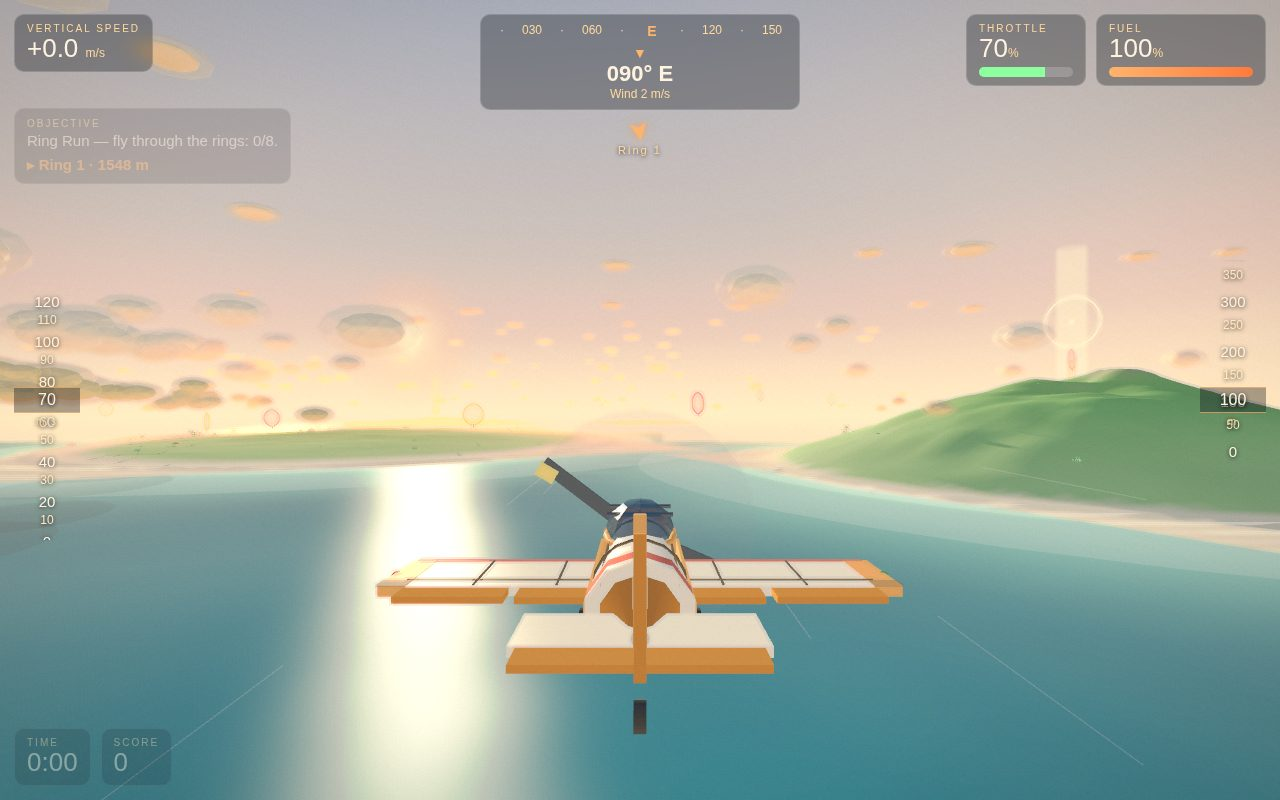
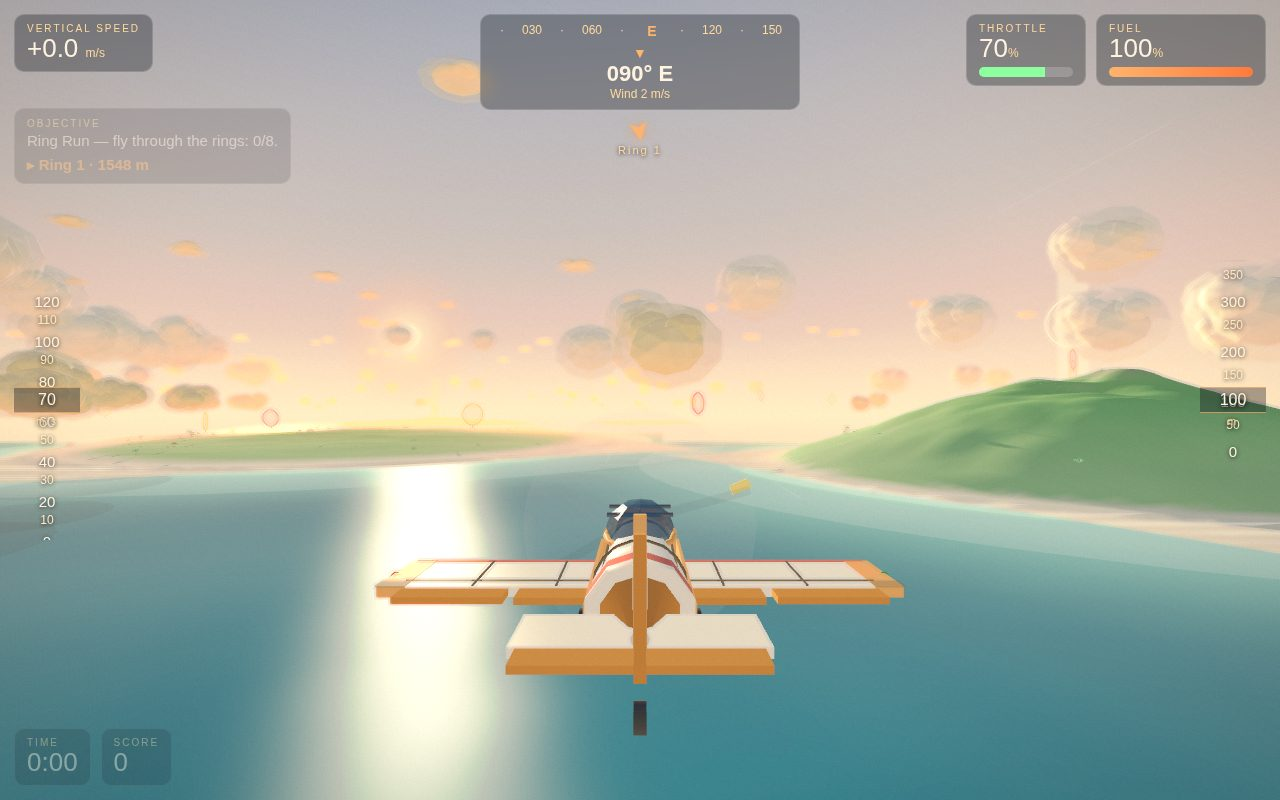
H5 prop-blur fix + cloud roundness + re-shoot
- Cockpit view hides prop blades, tips and blur disc (spinner stays);
  H4's grey pillar up the middle of the cockpit frame is gone.
- Chase blades thinner (0.34->0.22), darker own material, fade out
  with RPM; blur disc lighter grey (0x6b7178) so it reads as haze.
- Clouds: 3 balls per puff (core + 2 caps) and rounder flattening
  (cumulus 0.55->0.8, low 0.5->0.75) — no more flat beige discs.
- Re-shot all 4 screenshots (1280x800, <256 KiB); dossier regenerated.
- Landing bottom-left teal striping persists (cause unconfirmed).

diff --git a/game/src/world.js b/game/src/world.js
@@ -859,25 +859,37 @@ function buildLayeredClouds(rng) {
 
   const layerDefs = [
     { key: 'cirrus', yMin: 300, yMax: 380, count: 80, rMin: 14, rMax: 26, flat: 0.3, color: 0xffe6bf, opacity: 0.8, driftMin: 1.5, driftMax: 3.0 },
-    { key: 'cumulus', yMin: 150, yMax: 230, count: 140, rMin: 16, rMax: 30, flat: 0.55, color: 0xfff3e0, opacity: 0.92, driftMin: 1.2, driftMax: 2.6 },
-    { key: 'low', yMin: 80, yMax: 130, count: 70, rMin: 12, rMax: 22, flat: 0.5, color: 0xf2dcae, opacity: 0.95, driftMin: 1.8, driftMax: 3.2 },
+    { key: 'cumulus', yMin: 150, yMax: 230, count: 140, rMin: 16, rMax: 30, flat: 0.8, color: 0xfff3e0, opacity: 0.92, driftMin: 1.2, driftMax: 2.6 },
+    { key: 'low', yMin: 80, yMax: 130, count: 70, rMin: 12, rMax: 22, flat: 0.75, color: 0xf2dcae, opacity: 0.95, driftMin: 1.8, driftMax: 3.2 },
+  ];
+
+  // H5: every puff is a cluster of 3 balls (core + 2 smaller caps
+  // stacked on top, varied sizes) instead of one flattened disc, so
+  // clouds read as round cumulus, not beige plates. The halo shell
+  // follows the same tripled instances.
+  const SUBS = 3;
+  const SUB_OFF = [
+    [0, 0, 0, 1.0],
+    [-0.55, 0.38, 0.15, 0.62],
+    [0.5, 0.32, -0.2, 0.48],
   ];
 
   const layers = {};
   for (const def of layerDefs) {
+    const total = def.count * SUBS;
     const mat = lambert(def.color, {
       flatShading: true,
       vertexColors: true,
       transparent: true,
       opacity: def.opacity,
     });
-    const mesh = new THREE.InstancedMesh(geo, mat, def.count);
+    const mesh = new THREE.InstancedMesh(geo, mat, total);
     mesh.instanceMatrix.setUsage(THREE.DynamicDrawUsage);
-    const base = new Float32Array(def.count * 3);
-    const scale = new Float32Array(def.count * 3);
-    const speed = new Float32Array(def.count);
+    const base = new Float32Array(total * 3);
+    const scale = new Float32Array(total * 3);
+    const speed = new Float32Array(total);
     const ownClusters = lineClusters.filter((c) => c.layer === def.key);
-    for (let i = 0; i < def.count; i++) {
+    for (let p = 0; p < def.count; p++) {
       let x, y, z;
       if (ownClusters.length > 0 && rng.range(0, 1) < 0.6) {
         const c = ownClusters[rng.int(0, ownClusters.length - 1)];
@@ -890,34 +902,44 @@ function buildLayeredClouds(rng) {
         z = rng.range(-1800, 1800);
       }
       const r = rng.range(def.rMin, def.rMax);
-      base[i * 3] = x;
-      base[i * 3 + 1] = y;
-      base[i * 3 + 2] = z;
-      scale[i * 3] = r;
-      scale[i * 3 + 1] = r * def.flat;
-      scale[i * 3 + 2] = r;
-      speed[i] = rng.range(def.driftMin, def.driftMax);
-      dummy.position.set(x, y, z);
-      dummy.scale.set(r, r * def.flat, r);
-      dummy.rotation.set(0, 0, 0);
-      dummy.updateMatrix();
-      mesh.setMatrixAt(i, dummy.matrix);
-      // Jitter each puff's colour a few percent so the layer is not one
-      // flat tint: the warm top / shaded bottom read comes from the
-      // baked vertex gradient (bright cirrus, warm cumulus, warm low).
-      const jitter = rng.range(0.9, 1.08);
-      tmpColor.setHex(def.color).multiplyScalar(jitter);
-      mesh.setColorAt(i, tmpColor);
+      const puffSpeed = rng.range(def.driftMin, def.driftMax);
+      for (let s = 0; s < SUBS; s++) {
+        const i = p * SUBS + s;
+        const sub = SUB_OFF[s];
+        const sr = r * sub[3];
+        const bx = x + sub[0] * r;
+        const by = y + sub[1] * r;
+        const bz = z + sub[2] * r;
+        base[i * 3] = bx;
+        base[i * 3 + 1] = by;
+        base[i * 3 + 2] = bz;
+        scale[i * 3] = sr;
+        scale[i * 3 + 1] = sr * def.flat;
+        scale[i * 3 + 2] = sr;
+        speed[i] = puffSpeed;
+        dummy.position.set(bx, by, bz);
+        dummy.scale.set(sr, sr * def.flat, sr);
+        dummy.rotation.set(0, 0, 0);
+        dummy.updateMatrix();
+        mesh.setMatrixAt(i, dummy.matrix);
+        // Jitter each ball's colour a few percent so the layer is not
+        // one flat tint: the warm top / shaded bottom read comes from
+        // the baked vertex gradient (bright cirrus, warm cumulus,
+        // warm low). Caps run a touch brighter than the core.
+        const jitter = rng.range(0.9, 1.08) * (s === 0 ? 1 : 1.05);
+        tmpColor.setHex(def.color).multiplyScalar(jitter);
+        mesh.setColorAt(i, tmpColor);
+      }
     }
     mesh.userData.cloudDrift = { base, scale, speed };
     mesh.instanceMatrix.needsUpdate = true;
     if (mesh.instanceColor) mesh.instanceColor.needsUpdate = true;
     layers[def.key] = mesh;
 
-    // Halo shell: the same puffs blown up ~1.5x and much fainter, so
+    // Halo shell: the same balls blown up ~1.5x and much fainter, so
     // each cloud has a dense warm core and a soft transparent edge.
-    const haloScale = new Float32Array(def.count * 3);
-    for (let i = 0; i < def.count; i++) {
+    const haloScale = new Float32Array(total * 3);
+    for (let i = 0; i < total; i++) {
       haloScale[i * 3] = scale[i * 3] * 1.5;
       haloScale[i * 3 + 1] = scale[i * 3 + 1] * 1.5;
       haloScale[i * 3 + 2] = scale[i * 3 + 2] * 1.5;
@@ -928,9 +950,9 @@ function buildLayeredClouds(rng) {
       transparent: true,
       opacity: def.opacity * 0.38,
     });
-    const halo = new THREE.InstancedMesh(geo, haloMat, def.count);
+    const halo = new THREE.InstancedMesh(geo, haloMat, total);
     halo.instanceMatrix.setUsage(THREE.DynamicDrawUsage);
-    for (let i = 0; i < def.count; i++) {
+    for (let i = 0; i < total; i++) {
       dummy.position.set(base[i * 3], base[i * 3 + 1], base[i * 3 + 2]);
       dummy.scale.set(haloScale[i * 3], haloScale[i * 3 + 1], haloScale[i * 3 + 2]);
       dummy.rotation.set(0, 0, 0);

diff --git a/game/src/aircraft.js b/game/src/aircraft.js
@@ -43,6 +43,11 @@ export function makeAircraft() {
   const orangeDark = lambert(PAINT.orangeDark);
   const metal = phong(PAINT.metal, { shininess: 70 });
   const dark = lambert(PAINT.dark);
+  // Propeller blades get their own material (never shared with the
+  // canopy mullions): darker and transparent, so the blades can fade
+  // out with RPM — a fast-spinning prop reads as a blur disc, not as
+  // a solid bar sweeping the frame.
+  const bladeMat = lambert(0x23272e, { transparent: true });
   const glass = phong(PAINT.glass, { shininess: 220, specular: 0xffe9b0, flatShading: true, transparent: true, opacity: 0.88 });
 
   // --- Fuselage: a tapered body, nose cone up front, tail cone at the back.
@@ -207,7 +212,10 @@ export function makeAircraft() {
   propeller.add(spinner);
   const blades = [];
   for (let i = 0; i < 2; i++) {
-    const blade = slab(0.34, 2.9, 0.1, dark);
+    // H5: narrower (0.34 -> 0.22) and thinner (0.1 -> 0.07) so a blade
+    // caught mid-spin never reads as a thick grey pillar or diagonal
+    // bar across the frame.
+    const blade = slab(0.22, 2.9, 0.07, bladeMat);
     blade.position.y = i === 0 ? 1.45 : -1.45;
     // A slight twist so the blades read as an airfoil, not a flat bar.
     blade.rotation.z = i === 0 ? 0.12 : -0.12;
@@ -215,20 +223,23 @@ export function makeAircraft() {
     blades.push(blade);
   }
   // Yellow blade tips, visible while spinning.
+  const tips = [];
   for (const side of [-1, 1]) {
-    const tip = slab(0.36, 0.5, 0.12, lambert(0xffc93c));
+    const tip = slab(0.24, 0.5, 0.09, lambert(0xffc93c));
     tip.position.y = side * 2.7;
     propeller.add(tip);
+    tips.push(tip);
   }
   group.add(propeller);
 
   // Propeller blur disc: a translucent disc in front of the blades that
   // fades in with RPM, so a fast spin reads as smooth motion instead of
-  // flickering blades.
+  // flickering blades. H5: lighter grey (0x3a3f45 -> 0x6b7178) so the
+  // disc reads as haze against a bright sky, not a solid grey bubble.
   const blurDisc = new THREE.Mesh(
     new THREE.CircleGeometry(2.95, 24),
     new THREE.MeshBasicMaterial({
-      color: 0x3a3f45,
+      color: 0x6b7178,
       transparent: true,
       opacity: 0,
       side: THREE.DoubleSide,
@@ -311,6 +322,8 @@ export function makeAircraft() {
     group,
     propeller,
     blades,
+    tips,
+    blurDisc,
     ailerons,
     flaps,
     elevator,
@@ -319,6 +332,17 @@ export function makeAircraft() {
     throttle: 0,
     propAngle: 0,
     navTime: 0,
+    // Cockpit view: the renderer sets this via setCockpit; the prop
+    // is hidden from the pilot's own eye (from a real cockpit a prop
+    // is only a faint peripheral blur, never a pillar in the middle
+    // of the windscreen).
+    cockpit: false,
+
+    // Hide or show the spinning prop parts for the cockpit view.
+    // The spinner hub stays: it is part of the nose the pilot sees.
+    setCockpit(v) {
+      plane.cockpit = !!v;
+    },
 
     // Set the throttle (0..1). The propeller spins faster as it rises.
     setThrottle(v) {
@@ -343,6 +367,17 @@ export function makeAircraft() {
       const targetBlur = 0.02 + plane.throttle * 0.10;
       blurDisc.material.opacity +=
         (targetBlur - blurDisc.material.opacity) * Math.min(1, dt * 4);
+
+      // H5: the prop never shows in the cockpit view — blades, tips
+      // and disc all hidden (the spinner hub stays, it is the nose).
+      // In chase view the blades fade out fast with RPM, so at flying
+      // throttle only the soft disc remains: a solid blade sweeping
+      // the frame read as a grey pillar / diagonal bar in H4.
+      const showProp = !plane.cockpit;
+      blurDisc.visible = showProp;
+      for (const b of blades) b.visible = showProp;
+      for (const t of tips) t.visible = showProp;
+      bladeMat.opacity = Math.max(0.12, 1.15 - plane.throttle * 2.2);
 
       // Ailerons deflect opposite each other with the roll input.
       const roll = input.roll || 0;

diff --git a/game/src/render.js b/game/src/render.js
@@ -273,6 +273,9 @@ export function createRenderer(canvas, world) {
   camera.lookAt(0, 10, 330);
 
   let view = 'chase';
+  // H5: the attached aircraft, so setView can hide the prop in
+  // cockpit view (set in setAircraft below).
+  let aircraft = null;
   let lookYaw = 0;
   let lookPitch = 0;
   let shakeAmp = 0;
@@ -387,6 +390,7 @@ export function createRenderer(canvas, world) {
 
     // Attach the aircraft so the contrails can read its wingtips.
     setAircraft(ac) {
+      aircraft = ac;
       if (effects) effects.setAircraft(ac);
     },
 
@@ -394,6 +398,12 @@ export function createRenderer(canvas, world) {
       if (name !== 'cockpit' && name !== 'chase') return;
       if (name !== view) {
         view = name;
+        // H5: hide the prop (blades + tips + blur disc) from the
+        // pilot's own eye — in H4 it read as a grey pillar up the
+        // middle of the cockpit frame.
+        if (aircraft && typeof aircraft.setCockpit === 'function') {
+          aircraft.setCockpit(name === 'cockpit');
+        }
         // Fresh look direction on a view change, so the pilot is never
         // left staring sideways after toggling.
         lookYaw = 0;

diff --git a/round3-progress.md b/round3-progress.md
@@ -10,7 +10,8 @@ DO NOT SUBMIT — prereview ulang ke pengguna dulu.
 - [x] H2 clouds + sea (effects.js, render.js, world.js sea part) — agent 8b762894-03e1-49e4-8894-a82104d23228 — DONE, commit 7707881, usage row written (46 rows total). Clouds FIXED (warm white, no purple). Sea gradient + glint OK. BUT sea moiré lines persist (H2 tested 5 levers, none moved them).
 - [x] H2b sea-line diagnostic + fix (render.js/world.js sea mesh) — DONE, commit e47b5d2, usage row written (47 rows total). Cause = Z-FIGHTING, not swell: swell-0 test (RMS 12.9 vs 12.3 baseline) and shadows-off test (13.1) left lines unchanged; hiding deep disc cut RMS to 8.6, hiding sea cut it to 6.8. Fix: deep-water disc removed + polygonOffset on sea material. Verified cover: sea RMS 12.3 -> 5.6, lines GONE on sand + open sea, swell restored. NOTE: fainter stripes remain on the GRASS slopes (persist with sea hidden) — terrain-local, separate cause, for H3.
 - [x] H3 3D detail volume + camera/shot poses (world.js palms/huts/rocks/vegetation/terrain, shots.js cover, render.js chase cam + sun disc, aircraft.js prop blur) — agent 72be6d5d-5624-4a80-a5c0-acb988573d18 — DONE, commit b4d9966 (pushed), usage row written (48 rows total). Verified: cover v2 (bank 0) — plane big/wings-level in frame, Merapi looming right with ring 3 + checkpoint beam, sun-glint path strong on sea left, grass-slope stripes GONE (smooth shading + rim floor 2.05 + polygonOffset). Cover bank set to 0: banked pose turns the plane while the screenshot waits and walks the sun out of frame. Sun disc itself still faint vs pale sky (bumped 55→95) — glint carries the sun read. Prop blur disc ceiling 0.35→0.12 (was a grey bubble with the closer camera; rings re-shot confirms faint haze). Cockpit/rings/landing re-shots in ~/workspace/h3-verify/ (server script there too — /tmp was wiped by a VM deployment mid-session, which also killed the first screenshot batch).
-- [x] H4 re-screenshot + re-check + re-bundle (shots, main.ts, check, bundle) — DONE, agent 278d814b-909f-4c96-9120-c830dfb2c8c3. 4 shots re-taken 06:44–06:46 WIB (1280x800, <256 KiB, new hashes), dossier regenerated (hashes match), check 14 passed / 0 failed / thinking_reproduces 99.8%, bundle baru 3,604,608 bytes sha256 c6d05c81…73d9cc (25 sessions, 2241 messages). Visual: cover/rings/landing bagus; cockpit masih menampilkan prop-blur disc besar + blade (sudah ada sejak H3); landing pojok kiri bawah ada striping horizontal halus; Merapi di cover berupa dome hijau mulus tanpa detail kawah; sun disc tidak terlihat jelas (glint yang membawa). Bundle warning: 0 usage rows untuk sesi H4 (278d814b) + parent (2944953e) — koordinator re-run SELECT + re-bundle setelah H4 selesai.
+- [x] H4 re-screenshot + re-check + re-bundle (shots, main.ts, check, bundle) — DONE, agent 278d814b-909f-4c96-9120-c830dfb2c8c3. 4 shots re-taken 06:44–06:46 WIB (1280x800, <256 KiB, new hashes), dossier regenerated (hashes match), check 14 passed / 0 failed / thinking_reproduces 99.8%, bundle baru 3,604,608 bytes sha256 c6d05c81…73d9cc (25 sessions, 2241 messages). Visual: cover/rings/landing bagus; cockpit masih menampilkan prop-blur disc besar + blade (sudah ada sejak H3); landing pojok kiri bawah ada striping horizontal halus; Merapi di cover berupa dome hijau mulus tanpa detail kawah; sun disc tidak terlihat jelas (glint yang membawa). Usage rows H4 + coordinator appended by coordinator (54 rows total).
+- [x] H5 prop-blur fix + cloud roundness + re-shoot + re-check + re-bundle — agent 6298d811-9b50-41ab-a223-c6fdd7488611 — DONE, commit TBD (pushed). Prop: cockpit hides blades+tips+disc (render.setView -> aircraft.setCockpit; spinner stays); chase blades thinner 0.34->0.22, darker own material, fade with RPM (opacity 1->0.12 floor), disc lighter 0x6b7178. Clouds: 3 balls per puff + flat 0.55/0.5->0.8/0.75. Verified: cockpit pillar GONE, landing diagonal bar GONE (only a faint thin vertical blur streak remains), clouds round/lumpy in cover + rings, Merapi + glint intact. Landing bottom-left teal striping STILL THERE (zoom confirms dense horizontal lines over sand; cause unconfirmed, likely sea-swell vs beach at grazing angle — no fix attempted per H5 brief). 4 shots re-taken 06:52–06:53 WIB (1280x800, <256 KiB, new hashes), dossier regenerated (hashes match), check 14 passed / 0 failed / thinking_reproduces TBD% (with --transcripts), bundle TBD bytes sha256 TBD.
 
 ## Rules reminder
 - Surgical edits only; each edited file revised in >=2 messages.
